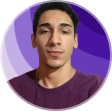
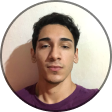
add readme and index modifications

diff --git a/index.html b/index.html
@@ -1,5 +1,5 @@
 <!DOCTYPE html>
-<html lang="pt-br" class="">
+<html lang="pt-br" class="light">
 <head>
 
     <link rel="preconnect" href="https://fonts.googleapis.com">
@@ -8,14 +8,14 @@
 
     <meta charset="UTF-8">
     <meta name="viewport" content="width=device-width, initial-scale=1.0">
-    <title>Victor DevLinks</title>
+    <title>DevLinks</title>
 </head>
 <link rel="stylesheet" href="style.css">
 <body>
     <div id="container">
         <div id="profile">
-            <img src="./assets/avatar.png" alt="Foto do Ryan com fundo branco">
-            <p>Ryan Victor</p>
+            <img src="./assets/avatar.png" alt="Foto do Ryan com camisa preta">
+            <p>@ryanvicdev</p>
         </div>
         <div id="switch" onclick="toggleMode()">
             <button>
@@ -25,26 +25,26 @@
         </div>
         <ul>
             <li>
-                <a href="#" target="_blank">Acesse meu portifólio</a>
+                <a href="https://github.com/ryanvicdev/" target="_blank">Veja meu portifólio</a>
             </li>
             <li>
-                <a href="https://www.linkedin.com/in/ryan-victor-384096205/" target="_blank">Linkedin</a>
+                <a href="https://www.linkedin.com/in/ryan-victor-384096205/" target="_blank">LinkedIn</a>
             </li>
             <li>
-                <a href="https://www.instagram.com/ryanvictorw/" target="_blank">Instagram</a>
+                <a href="https://www.Instagram.com/" target="_blank">Instagram</a>
             </li>
             <li>
-                <a href="#" target="_blank">Canal do Youtube</a>
+                <a href="https://www.youtube.com/" target="_blank">Canal do Youtube</a>
             </li>
         </ul>
         <div id="social-links">
-            <a href="#" target="_blank">
+            <a href="https://github.com/ryanvicdev/" target="_blank">
              <ion-icon name="logo-github"></ion-icon>
             </a>
-            <a href="https://www.instagram.com/ryanvictorw/" target="_blank">
+            <a href="https://www.Instagram.com/" target="_blank">
               <ion-icon name="logo-instagram"></ion-icon>
             </a>
-            <a href="#" target="_blank">
+            <a href="https://www.youtube.com/" target="_blank">
               <ion-icon name="logo-youtube"></ion-icon>
             </a>
             <a href="https://www.linkedin.com/in/ryan-victor-384096205/" target="_blank">

diff --git a/README.md b/README.md
@@ -1,0 +1,46 @@
+<h1 align="center"> DevLinks </h1>
+
+<p align="center">
+Programa exclusivo e gratuito, promovido pela Rocketseat para ensino de tecnologias WEB.
+</p>
+
+<p align="center">
+  <a href="#-tecnologias">Tecnologias</a>&nbsp;&nbsp;&nbsp;|&nbsp;&nbsp;&nbsp;
+  <a href="#-projeto">Projeto</a>&nbsp;&nbsp;&nbsp;|&nbsp;&nbsp;&nbsp;
+  <a href="#-layout">Layout</a>&nbsp;&nbsp;&nbsp;|&nbsp;&nbsp;&nbsp;
+  <a href="#memo-licença">Licença</a>
+</p>
+
+<p align="center">
+  <img alt="License" src="https://img.shields.io/static/v1?label=license&message=MIT&color=49AA26&labelColor=000000">
+</p>
+
+<br>
+
+<p align="center">
+  <img alt="calendario da copa" src=".github/preview.jpg" width="100%">
+</p>
+
+## 🚀 Tecnologias
+
+Esse projeto foi desenvolvido com as seguintes tecnologias:
+
+- HTML e CSS
+- JavaScript
+- Git e Github
+
+## 💻 Projeto
+
+O DevLinks é um projeto que mostra todos meus links de Redes Sociais.
+
+## 🔖 Layout
+
+Você pode visualizar o layout do projeto através [DESSE LINK](https://www.figma.com/file/J1Z33MISC22YZB8wfxiIns/NLW-Copa-Explorer/duplicate). É necessário ter conta no [Figma](https://figma.com) para acessá-lo.
+
+## :memo: Licença
+
+Esse projeto está sob a licença MIT.
+
+---
+
+Feito com ♥ by Rocketseat :wave: [Participe da nossa comunidade!](https://discord.gg/rocketseat)
